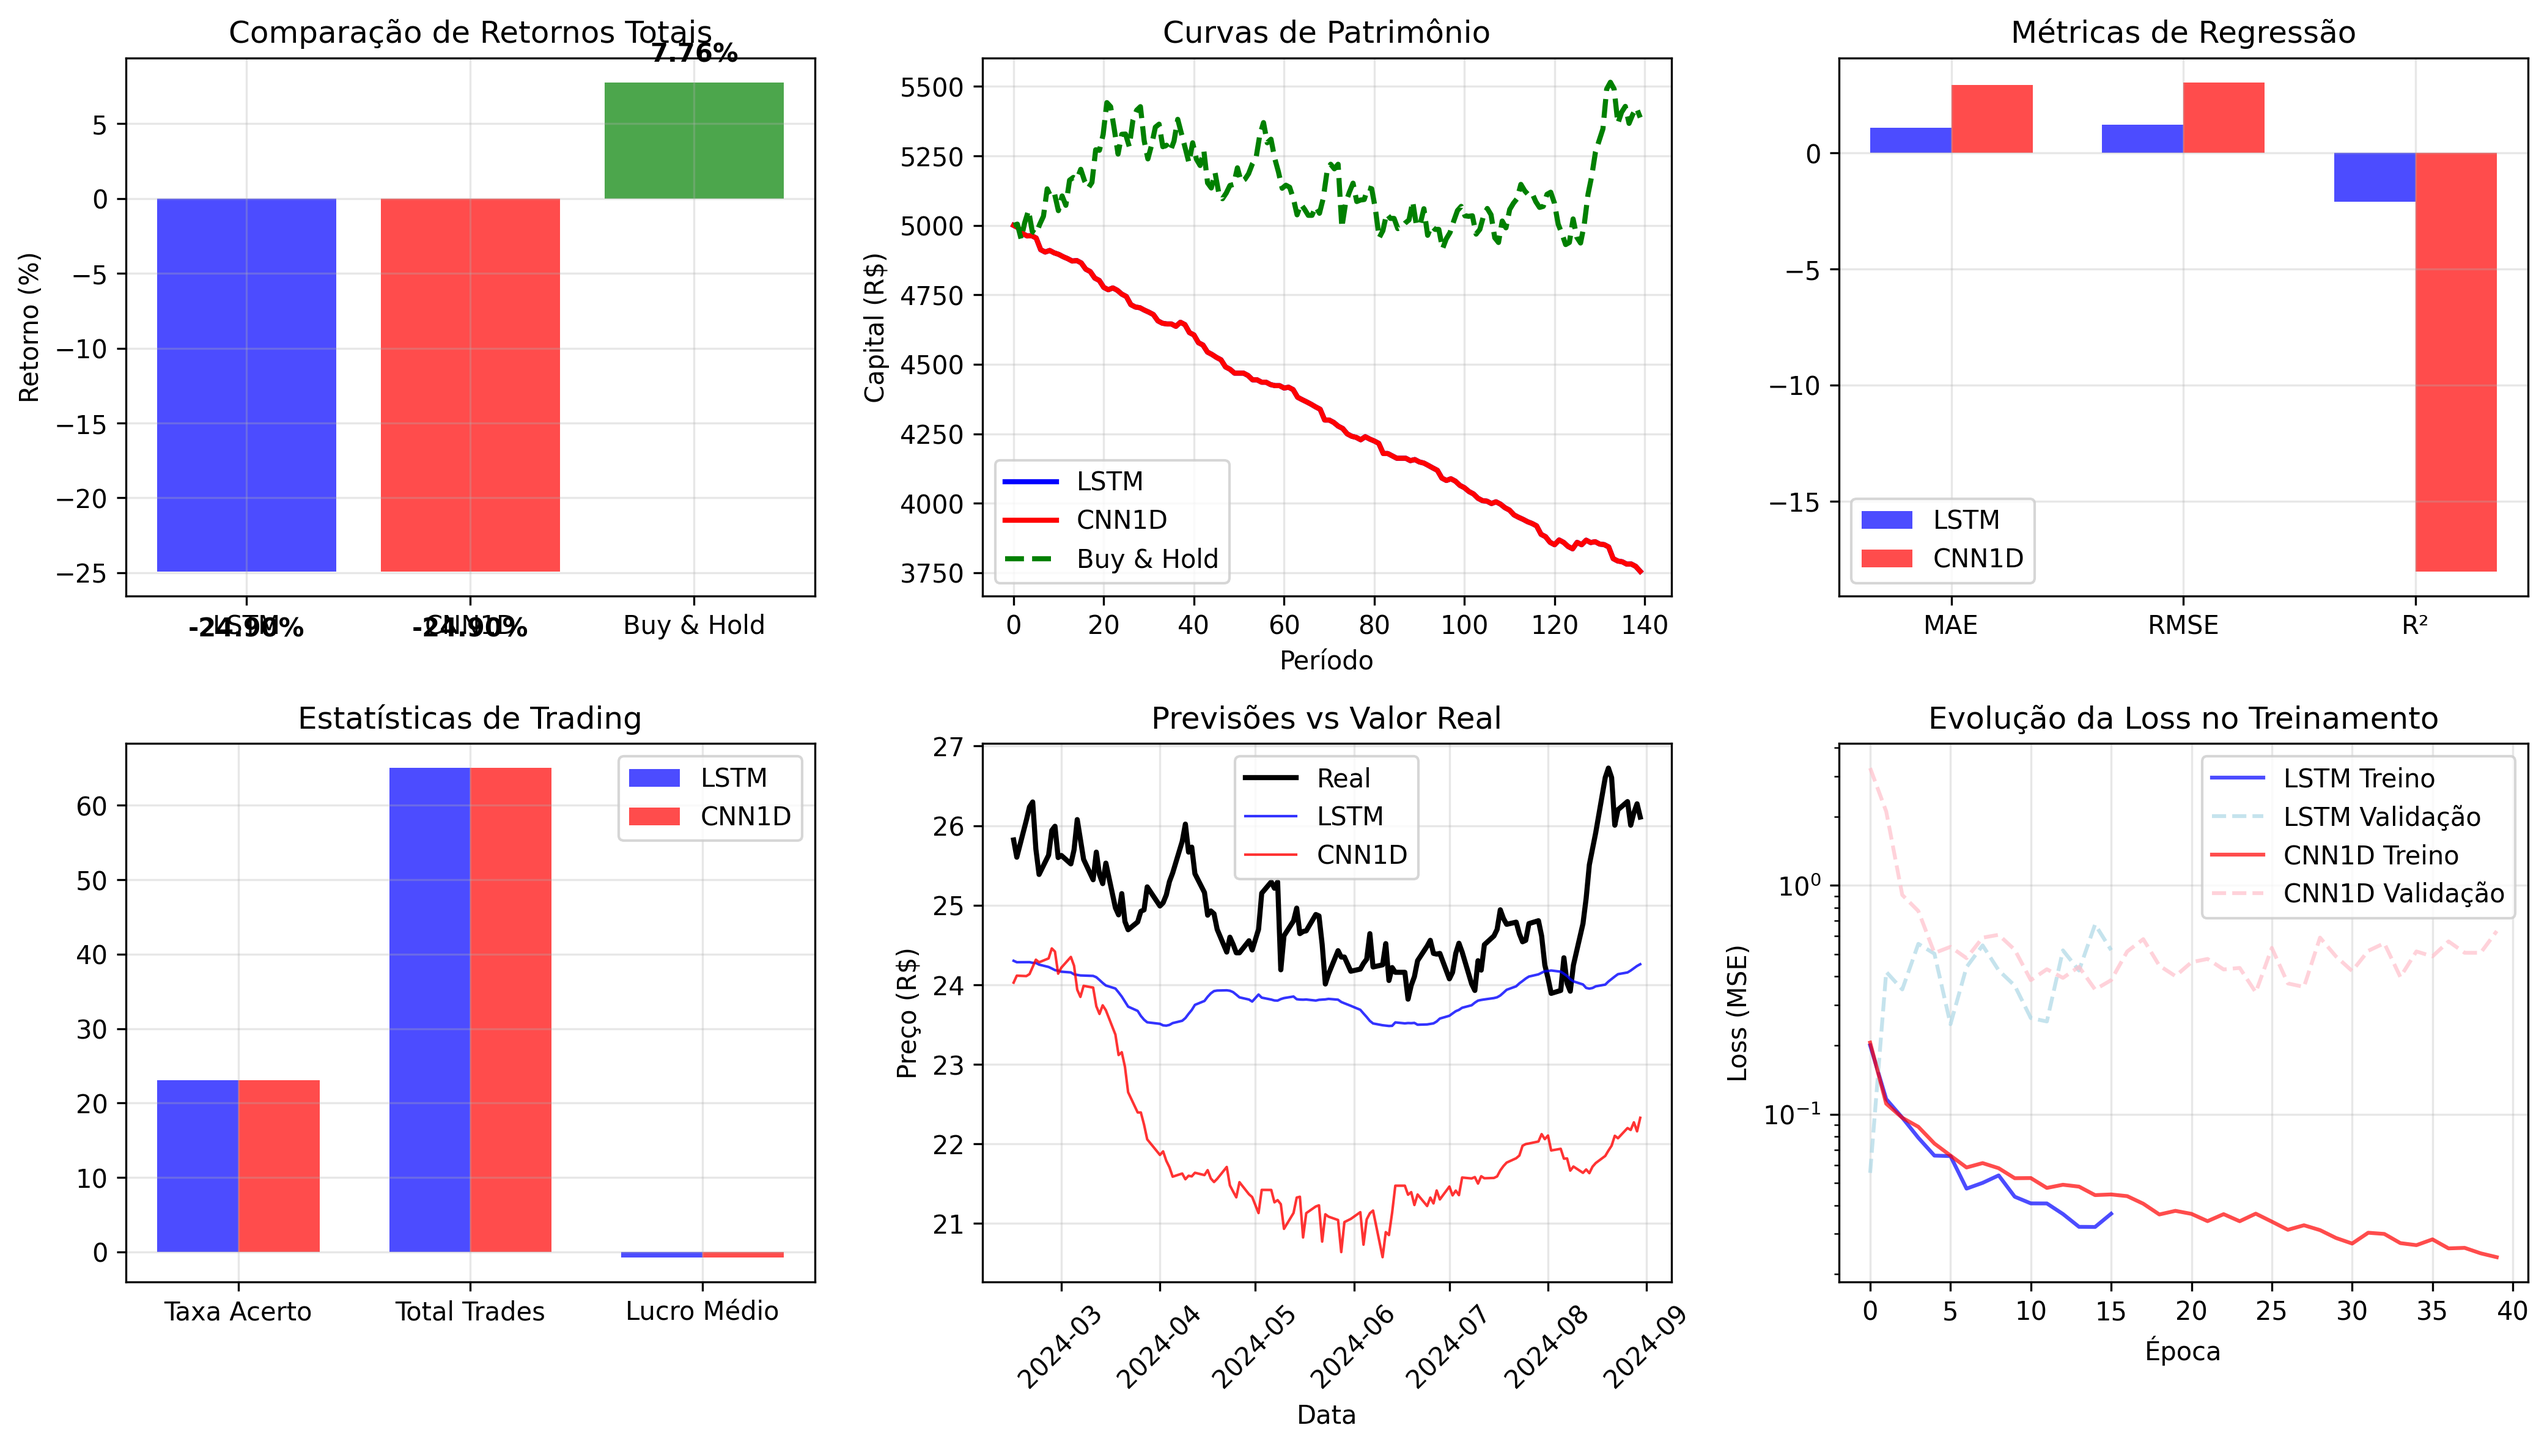
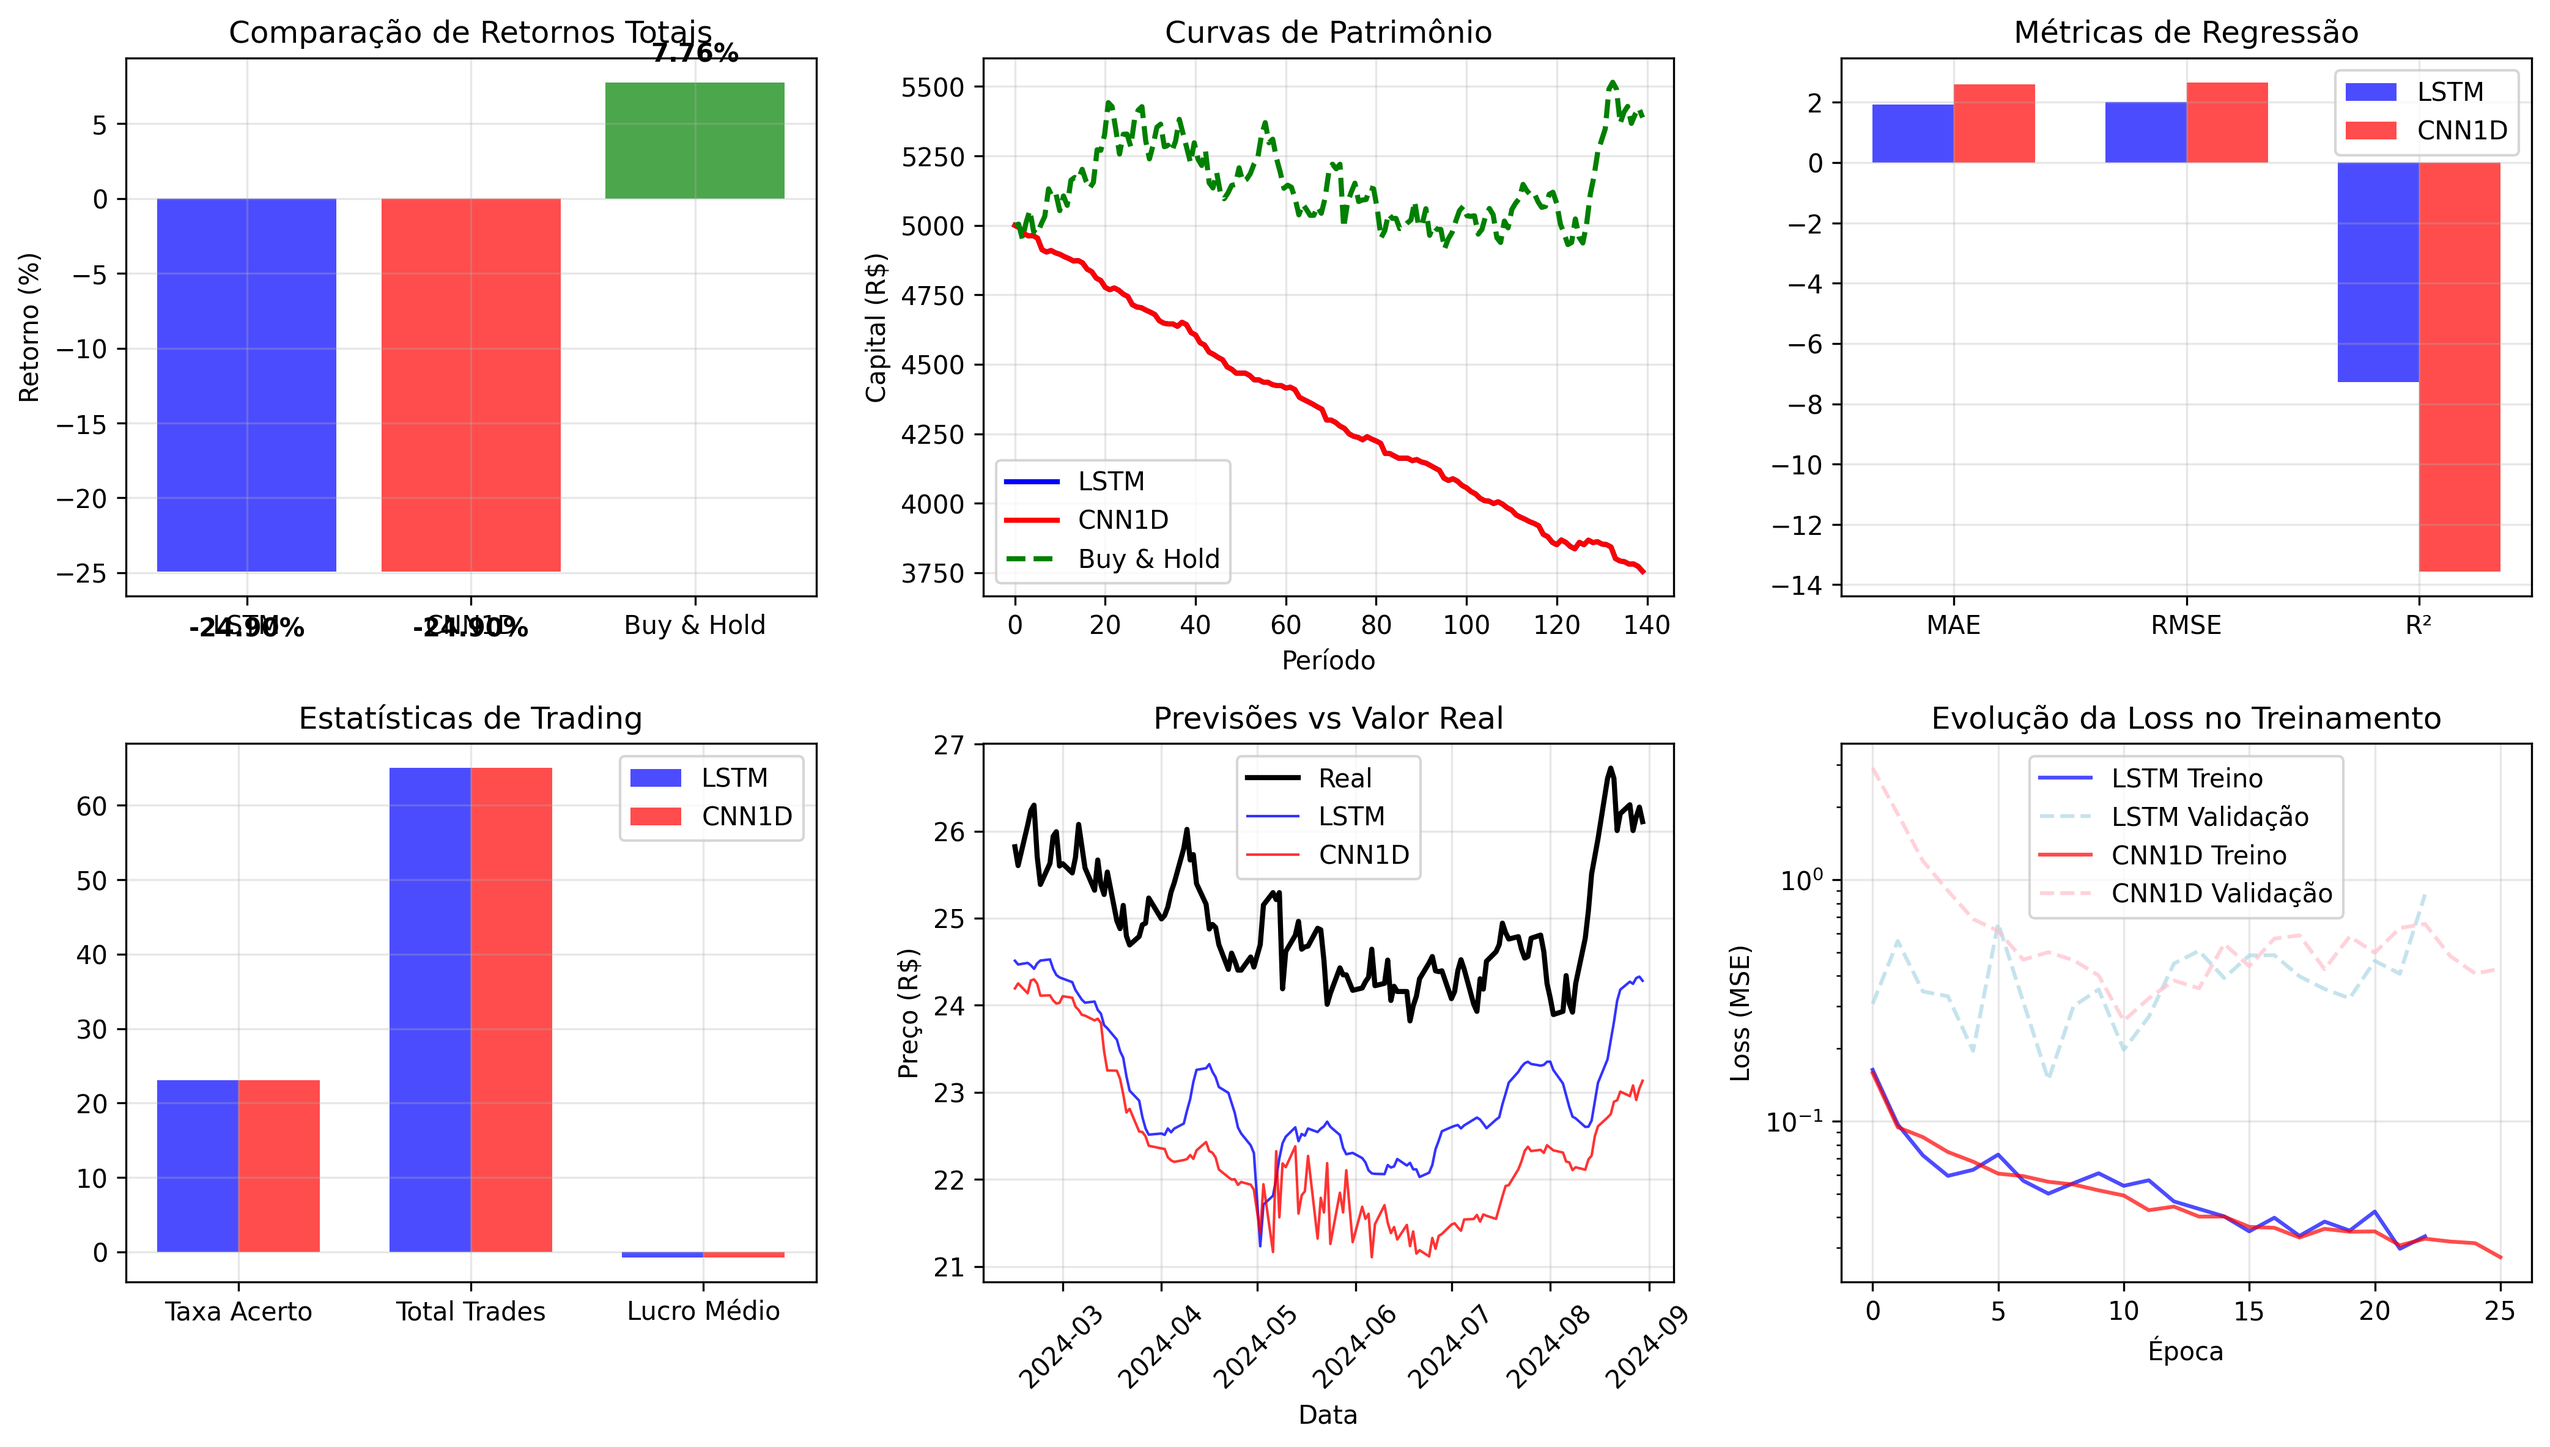
graficos lstm

diff --git a/lstmb3.py b/lstmb3.py
@@ -97,6 +97,13 @@ class TradingLSTMModel:
             Dropout(0.1),
             Dense(1)
         ])
+        # self.model = Sequential([
+        #   LSTM(500, return_sequences=True, input_shape=input_shape),
+        #   Dropout(0.3),
+        #   LSTM(500, return_sequences=False),
+        #   Dropout(0.3),
+        #   Dense(1)
+        # ])
         self.model.compile(optimizer='adam', loss='mse', metrics=['mae'])
         return self.model
     
@@ -286,8 +293,9 @@ class TradingLSTMModel:
         # Taxa de compra e venda
         taxa_compra = self.initial_capital * self.taxa_corretagem
         taxa_venda = final_value * self.taxa_corretagem
+        taxa_retirada = final_value * 0.01  # 1% de retirada final
         
-        final_value_net = final_value - taxa_compra - taxa_venda
+        final_value_net = final_value - (taxa_compra + taxa_venda + taxa_retirada)
         
         # Curva de equity do buy & hold
         bh_curve = [self.initial_capital]
@@ -334,21 +342,48 @@ class TradingLSTMModel:
         # === GRÁFICOS COMPLETOS ===
         plt.figure(figsize=(15, 12))
         
-        # 1⃣ Previsões vs Real
+      # 1⃣ Previsões vs Real com pontos de trade
         plt.subplot(3, 2, 1)
         plt.plot(y_test, label='Real', color='blue', linewidth=1)
         plt.plot(test_predict, label='Previsto', color='red', linewidth=1, alpha=0.7)
+
+        # Adicionar setas de compra e venda (com base nas datas)
+        for trade in trades:
+            if trade['date'] in self.test_dates:
+                idx = np.where(self.test_dates == trade['date'])[0]
+                if len(idx) > 0:
+                    idx = idx[0]
+                    price = y_test[idx]
+                    if trade['action'] == 'BUY':
+                        plt.scatter(idx, price, color='lime', marker='^', s=120, label='Compra' if 'Compra' not in plt.gca().get_legend_handles_labels()[1] else "")
+                    elif 'SELL' in trade['action']:
+                        plt.scatter(idx, price, color='red', marker='v', s=120, label='Venda' if 'Venda' not in plt.gca().get_legend_handles_labels()[1] else "")
+
         plt.title(f'{self.ticker} - Preços Reais vs Previstos (Teste)')
         plt.ylabel('Preço (R$)')
         plt.legend()
         plt.grid(True, alpha=0.3)
 
-        # 2⃣ Equity Curve - Comparação
+        # 2⃣ Equity Curve - Comparação + marcações
         plt.subplot(3, 2, 2)
         plt.plot(strategy_equity, label='Estratégia LSTM', color='green', linewidth=2)
         plt.plot(bh_equity, label='Buy & Hold', color='blue', linewidth=2, alpha=0.7)
         plt.axhline(y=self.initial_capital, color='red', linestyle='--', alpha=0.5, label='Capital Inicial')
-        plt.title('Evolução do Patrimônio')
+
+        # 🔽 Marcações de compra e venda
+        buy_points = [i for i, t in enumerate(trades) if t['action'] == 'BUY']
+        sell_points = [i for i, t in enumerate(trades) if 'SELL' in t['action']]
+
+        for trade in trades:
+            idx = np.where(self.test_dates == trade['date'])[0]
+            if len(idx) > 0:
+                idx = idx[0]
+                if trade['action'] == 'BUY':
+                    plt.scatter(idx, strategy_equity[idx], color='lime', marker='^', s=100, label='Compra' if 'Compra' not in plt.gca().get_legend_handles_labels()[1] else "")
+                elif 'SELL' in trade['action']:
+                    plt.scatter(idx, strategy_equity[idx], color='red', marker='v', s=100, label='Venda' if 'Venda' not in plt.gca().get_legend_handles_labels()[1] else "")
+
+        plt.title('Evolução do Patrimônio com Pontos de Trade')
         plt.ylabel('Patrimônio (R$)')
         plt.legend()
         plt.grid(True, alpha=0.3)
@@ -400,6 +435,10 @@ class TradingLSTMModel:
         plt.grid(True, alpha=0.3)
 
         plt.tight_layout()
+        plt.subplots_adjust(hspace=0.4)
+        output_path = f"{self.ticker.replace('.SA', '')}_resultados.png"
+        plt.savefig(output_path, dpi=300, bbox_inches='tight')
+        print(f"💾 Gráfico salvo como {output_path}")
         plt.show()
 
         return {

diff --git a/comparativo.py b/comparativo.py
@@ -15,13 +15,9 @@ import warnings
 warnings.filterwarnings('ignore')
 
 # Configurações
-<<<<<<< HEAD
-TICKER = "ITUB4.SA"
-DATA_INICIO_TREINO = "2014-01-01"
-=======
+
 TICKER = "BBAS3.SA"
 DATA_INICIO_TREINO = "2020-01-01"
->>>>>>> 7c938ab81cc288fb7b354a7689ef43f03d8a43d1
 DATA_FIM_TREINO = "2023-12-31"
 DATA_INICIO_TESTE = "2024-01-01"
 DATA_FIM_TESTE = "2024-08-31"
@@ -482,14 +478,10 @@ def AnalisarTrades(trades):
 
 def CriarModeloLSTM(formato_entrada):
     modelo = Sequential([
-        LSTM(128, return_sequences=True, dropout=0.2, recurrent_dropout=0.1, input_shape=formato_entrada),
-        LSTM(64, return_sequences=True, dropout=0.2, recurrent_dropout=0.1),
-        LSTM(32, return_sequences=False, dropout=0.1),
-        Dense(64, activation='relu'),
-        Dropout(0.2),
-        Dense(32, activation='relu'),
+        LSTM(100, return_sequences=True, input_shape=formato_entrada, dropout=0.2),
+        LSTM(50, return_sequences=False, dropout=0.2),
+        Dense(25, activation='relu'),
         Dropout(0.1),
-        Dense(16, activation='relu'),
         Dense(1)
     ])
     modelo.compile(
